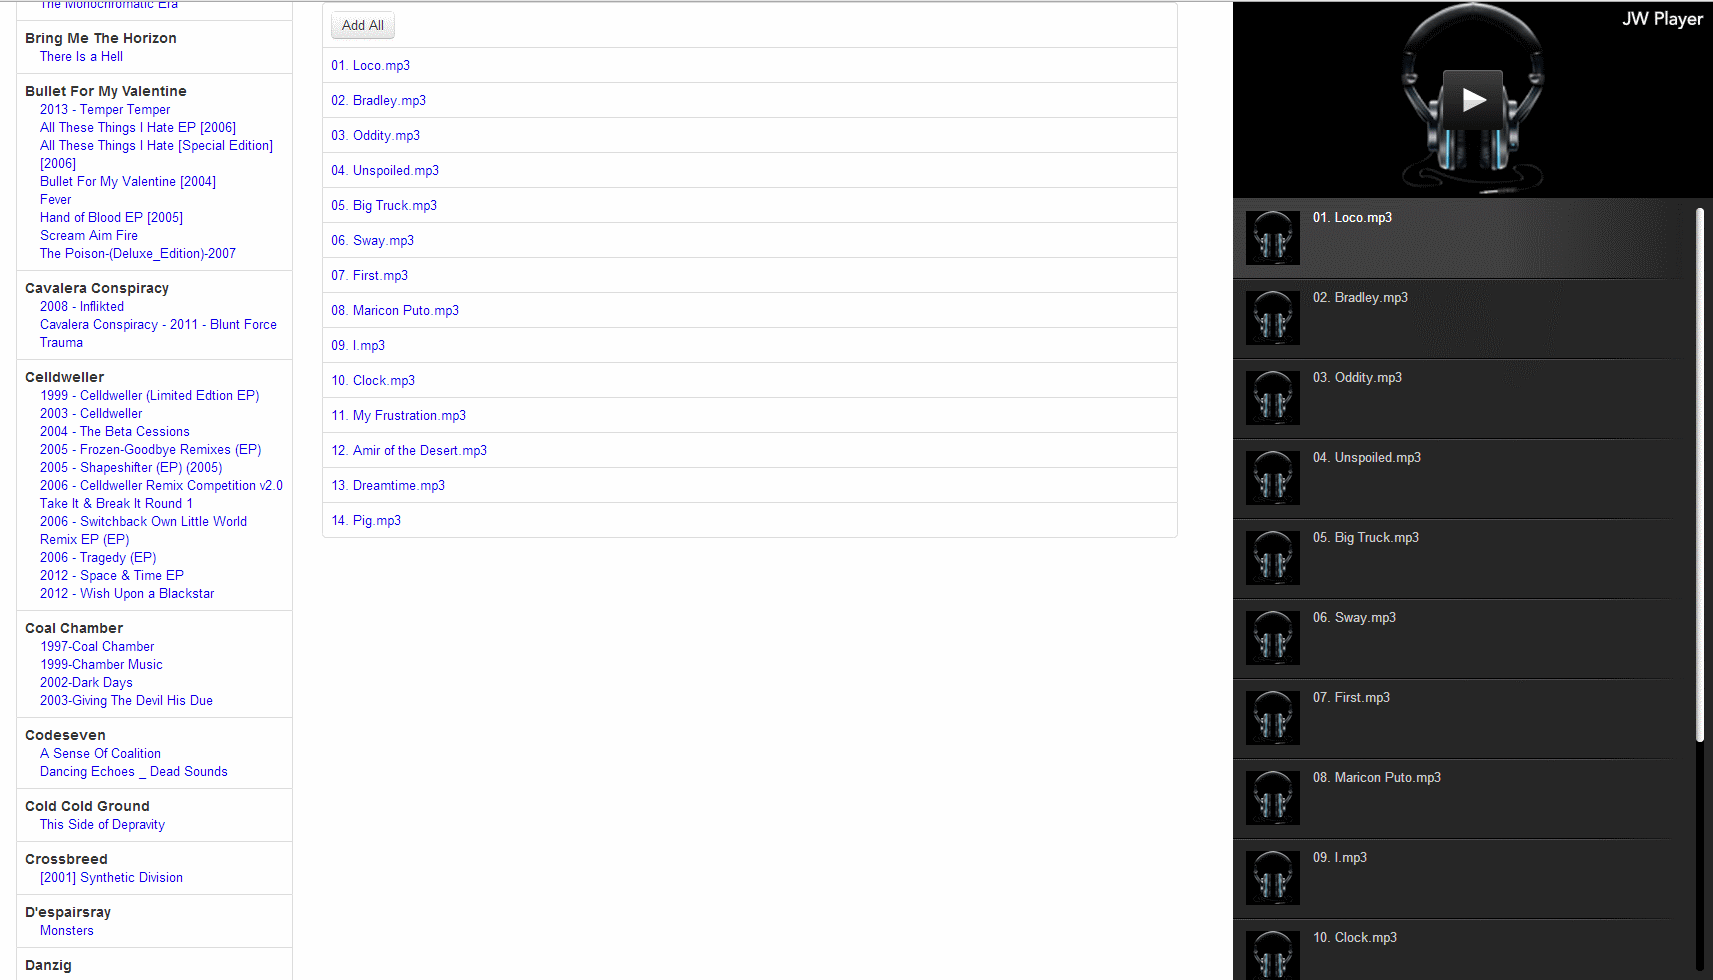
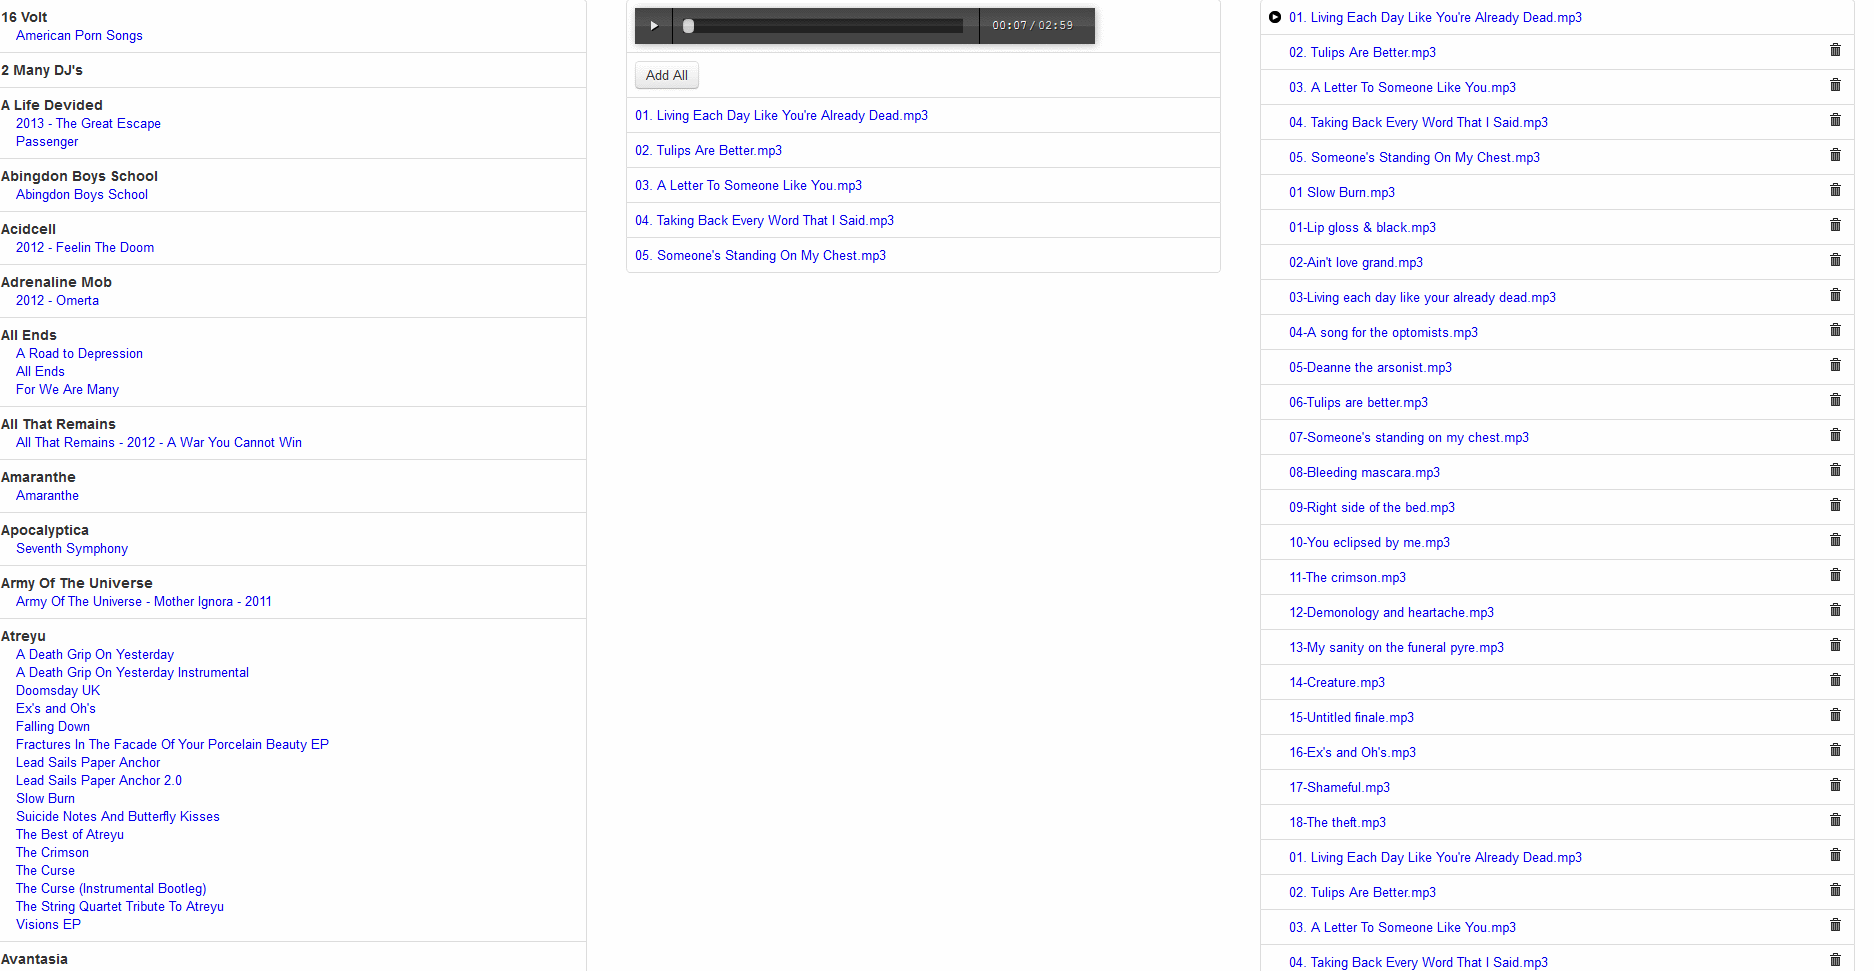
auto play first song, playlists ( fix #1 )

diff --git a/public/app/js/controllers.js b/public/app/js/controllers.js
@@ -67,8 +67,8 @@ function DirectoriesList($scope, $http) {
     }
 
     $scope.playSong = function(index){
-        //player.load($scope.playlistsongs[index].path);
-        //player.play();
+        player.load($scope.playlistsongs[index].path);
+        player.play();
         $scope.currentSongIndex = index;
         // force ng-repeat
         var cloneArray = [];

diff --git a/index.php b/index.php
@@ -21,7 +21,7 @@
                 <table class="table table-bordered">
                     <tr ng-repeat="dir in directories">
                         <td>
-                            <h4>{{dir.name}}</h4> 
+                            <h4 ng-click="selectAlbum(dir.name)">{{dir.name}}</h4> 
                             <div class="album link" ng-repeat="album in dir.children" ng-click="selectAlbum(dir.name+'/'+album.name)">
                                 {{album.name}}
                             </div>

diff --git a/public/app/directories/songs.php b/public/app/directories/songs.php
@@ -31,8 +31,7 @@ foreach($list as $file){
         $return[] = array(
             "image" => "./public/img/default.png", 
             "name" => $file,
-            "path" => $get_dir . "/" . $file,
-            "hash" => md5($get_dir . "/" . $file)
+            "path" => $get_dir . "/" . $file
         );
     }
 }

diff --git a/public/config.php b/public/config.php
@@ -1,7 +1,7 @@
 <?php
 $root = realpath(dirname(__FILE__)."/../")."/";
 $host = 'http://'.$_SERVER['HTTP_HOST'].str_replace("public/config.php", "", $_SERVER['PHP_SELF']);
-$exclude_dirs = array(".", "..", "public");
+$exclude_dirs = array(".", "..", "public", ".git");
 $dynamic_dir_scan = true;
 
 $public = array(

diff --git a/README.md b/README.md
@@ -2,10 +2,24 @@ music-player
 ============
 
 <p>A very lightweight directory based music player. Listing directories( artists ) and subdirectories( albums ).</p>
-<p>Making song playlist('s). Much TODO.</p>
+<p>Making playlists from mp3 files in folders</p>
+<p></p>
+### Suggested structure
+    -root
+    -ARTIST-1
+        -Album 1
+        -Album 2
+    -ARTIST-2
+        -Album 1
+        -Album 2
+    -ARTIST-N
+        -Album-N
+    -public ( not listed )
+    -index.php
+<p></p>
 <p>Using AngularJS for listing (http://angularjs.org/)</p>
 <p>Bootstrap for UI (http://twitter.github.com/bootstrap/)</p>
-<p>JW Player for playing (http://www.longtailvideo.com/support/jw-player/28832/about-jw-player).</p>
+<p>Audio.js ( http://kolber.github.com/audiojs/ ) </p>
 
 <br />
 <br />
